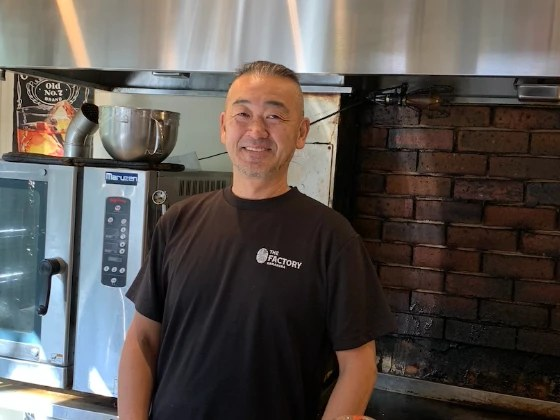
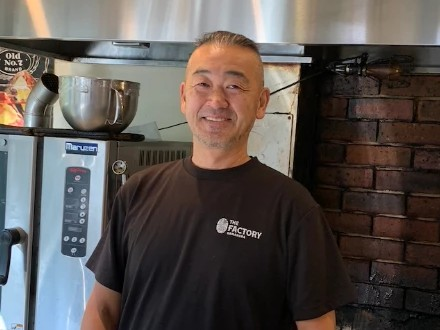
ミチシルベLP: 長島様の写真をさらに寄せて切り出す
Claude-Session: https://claude.ai/code/session_01BWWWf2roBfsVCjHE4DzXw1

diff --git a/michishirube/index.html b/michishirube/index.html
@@ -421,7 +421,7 @@
           </div>
         </article>
         <article class="case-card">
-          <img class="case-photo" src="assets/case-factory.jpg" alt="THE FACTORY KAMAKURA 店長 長島様" width="560" height="420" loading="lazy">
+          <img class="case-photo" src="assets/case-factory.jpg" alt="THE FACTORY KAMAKURA 店長 長島様" width="440" height="330" loading="lazy">
           <div class="case-body">
             <div class="case-shop">THE FACTORY KAMAKURA<small>鎌倉・ハンバーガー ／ 店長 長島様</small></div>
             <p class="case-quote">「Googleでの閲覧が1日あたり <strong>+19.7%</strong>、メニューの閲覧が <strong>+68.9%</strong>、ルート検索が <strong>+35.1%</strong> になりました。」</p>
